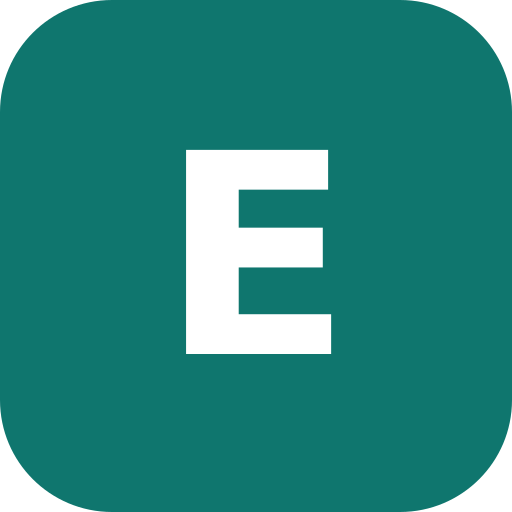
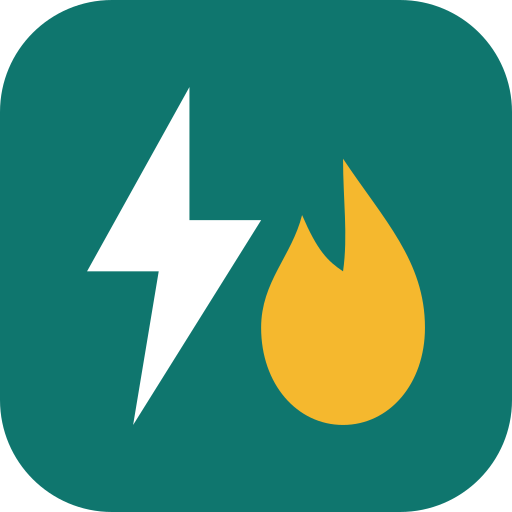
1.42.5: nieuw app-icoon (bliksem en vlam)
Claude-Session: https://claude.ai/code/session_015hpfmMqmxQbCT952aovBZc

Changed region(s): [[0.1562, 0.1562, 0.8438, 0.8438]]

diff --git a/js/config.js b/js/config.js
@@ -6,7 +6,7 @@ export const APP = {
 
   // Semver. Bij ELKE release ook VERSION in sw.js gelijk ophogen,
   // anders krijgen geïnstalleerde apps de update niet.
-  version: '1.42.4',
+  version: '1.42.5',
 
   // UNIEK PER APP. Alle GitHub Pages-sites onder <gebruiker>.github.io
   // delen dezelfde origin en dus dezelfde localStorage. Zonder unieke

diff --git a/sw.js b/sw.js
@@ -3,7 +3,7 @@
 // BIJ ELKE RELEASE: VERSION ophogen (gelijk aan js/config.js).
 // NIEUW BESTAND?    Toevoegen aan PRECACHE.
 
-const VERSION = '1.42.4';
+const VERSION = '1.42.5';
 
 // De cache-naam bevat het pad van de app, zodat meerdere apps onder
 // <gebruiker>.github.io elkaars cache niet opruimen.

diff --git a/DECISIONS.md b/DECISIONS.md
@@ -589,3 +589,12 @@ Geert vroeg om 13 uitbreidingen, elk met een eigen versie.
   volgen nu `--safe-top`, net als het meeschuivende paneel in Historie en springen naar een sectie in Instellingen.
 - Niet aangepast: `scroll-margin-top: 76px` van Instellingen-secties onder de kopbalk (iPhone/iPad staand). Op de iPad
   staand is de kopbalk nu 24 px hoger; een sectie kan bij springen iets onder de kopbalk vallen.
+
+## App-icoon: bliksem + vlam (1.42.5, 9 november 2026)
+- Gekozen uit vier voorstellen (stroom + gas, zon op huis, meter, vlam met bliksem). Bliksem + vlam laat in één
+  oogopslag zien dat de app over stroom én gas gaat en blijft op 32 px leesbaar.
+- Achtergrond blijft de accentkleur #0f766e; vlam in #f5b82e.
+- Bron is `icons/icon.svg`; de PNG's zijn daarmee gemaakt (rsvg-convert). Het iPhone-icoon (apple-touch-icon) is
+  vierkant zonder ronde hoeken (iOS rondt zelf af); het maskable-icoon heeft het symbool kleiner in het midden,
+  zodat Android het in elke vorm kan uitsnijden zonder iets af te knippen.
+

diff --git a/CHANGELOG.md b/CHANGELOG.md
@@ -1,5 +1,9 @@
 # Changelog
 
+## 1.42.5 – 2026-11-09
+- Nieuw app-icoon: een witte bliksem (stroom) en een gele vlam (gas) op het vertrouwde groene vlak, in plaats van
+  de letter E. Geldt voor het beginscherm, de browser, het inlogscherm en het logo in zijbalk en kopbalk.
+
 ## 1.42.4 – 2026-11-09
 - iPad (app op het beginscherm): veiligheidsmarge bovenin van minimaal 24 px, zoals in Games Backlog. iPadOS geeft
   daar vaak een veilige zone van 0 door, waardoor kopbalk, zijbalk en titel onder de statusbalk met de vervaging

diff --git a/NOTES.md b/NOTES.md
@@ -383,3 +383,8 @@
   iPhone 390×844 en 932×430 en laptop 1280×800 (zonder touch): ongewijzigd (8 / 12 / 16 px). Logo en inhoud sluiten
   aan (logo op 42 px, inhoud op 40 px).
 - [ ] Geert: op de iPad (liggend en staand) kijken of kopbalk/zijbalk nu vrij van de vervaging staan.
+
+## Stand (9 november 2026) – versie 1.42.5
+- Nieuw app-icoon (bliksem + vlam). Op de iPhone/iPad blijft het oude icoon op het beginscherm staan tot Geert de
+  app daar verwijdert en opnieuw toevoegt via Safari → Deel → Zet op beginscherm.
+
